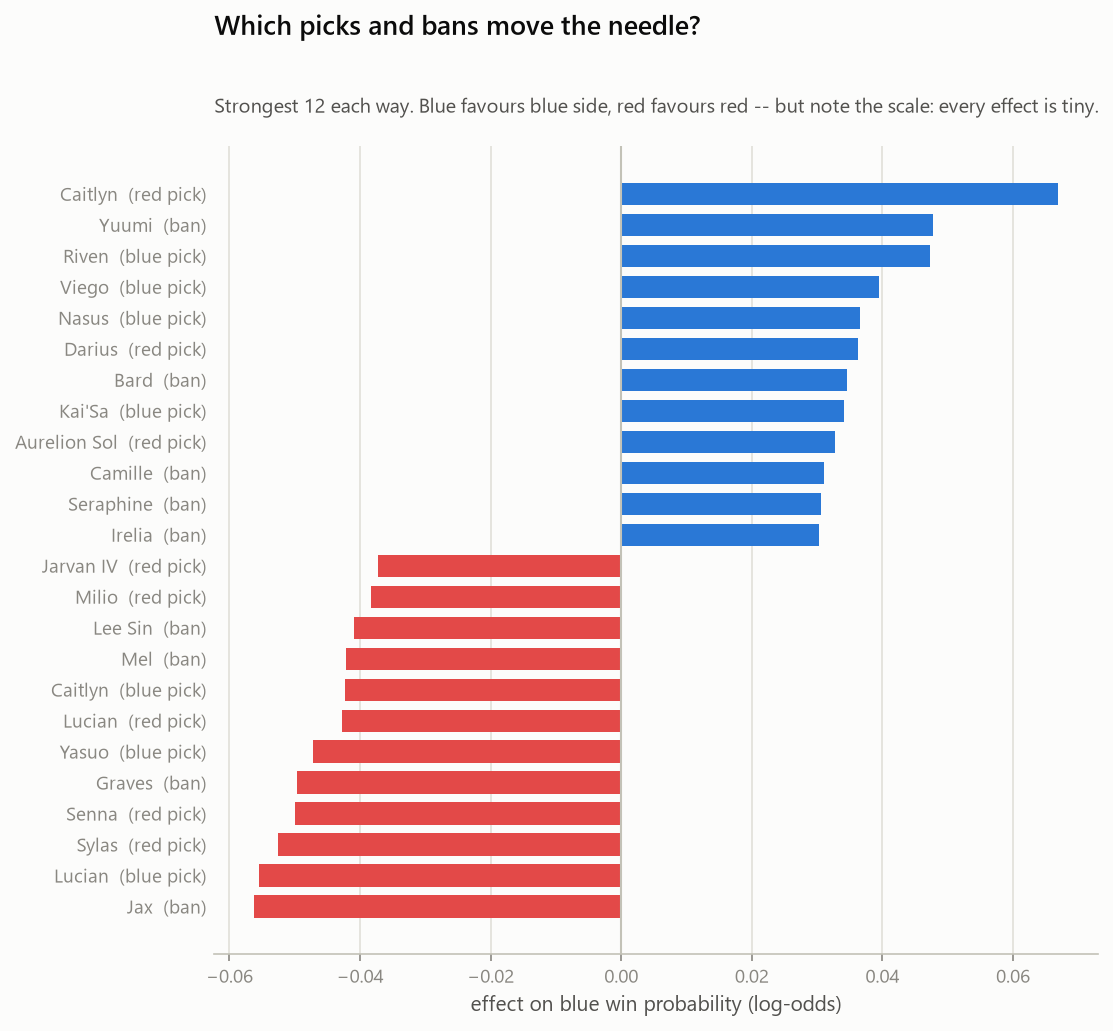
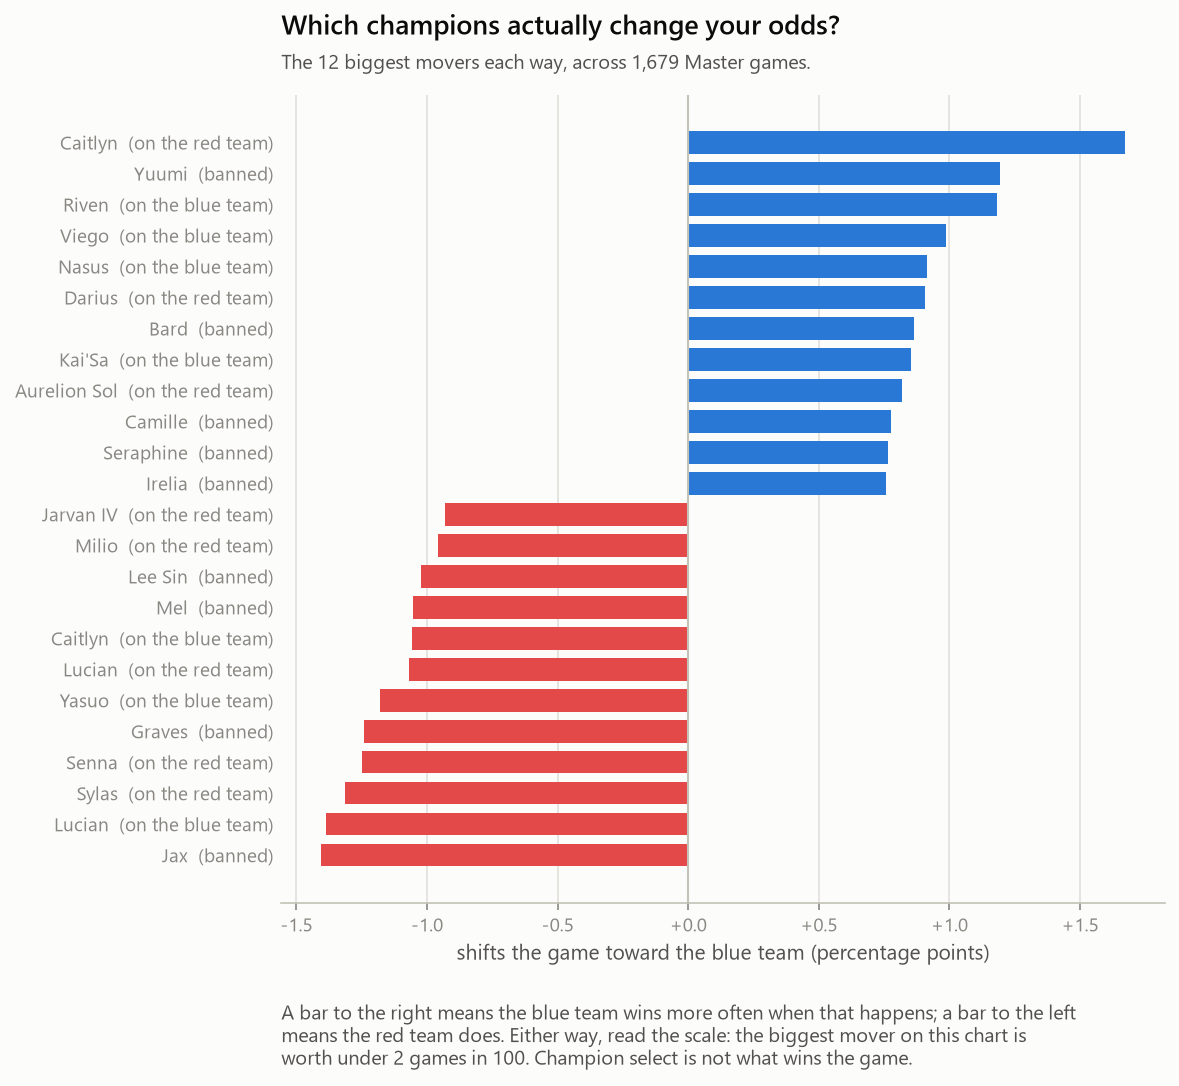
refining visualizations

diff --git a/src/model.py b/src/model.py
@@ -40,6 +40,12 @@ import viz  # noqa: E402
 N_SPLITS = 5
 RANDOM_STATE = 42
 
+# Plain-English names for anything a reader sees on a chart.
+FRIENDLY = {
+    "logreg  Tier-1 (M4)": "our model (champions)",
+    "LightGBM Tier-2 (M5)": "fancier model (did worse)",
+}
+
 # Regularization is TUNED, not guessed. With ~500 sparse Tier-1 features a fixed C
 # overfits badly (overconfident probabilities -> log-loss worse than a coin flip).
 C_GRID = np.logspace(-4, 1, 10)
@@ -145,12 +151,14 @@ def plot_calibration(y, curves: dict[str, np.ndarray], path: Path) -> None:
         prob_true, prob_pred = calibration_curve(y, np.clip(curves[name], 1e-6, 1 - 1e-6),
                                                  n_bins=10)
         ax.plot(prob_pred, prob_true, "o-", color=colour, lw=2, ms=6,
-                mec=viz.SURFACE, mew=1.5, label=name.strip(), zorder=3)
-    ax.set_xlabel("predicted win probability")
-    ax.set_ylabel("observed win rate")
-    viz.title_block(ax, "Calibration (out-of-fold)",
-                    "On the line = honest probabilities. Note how little of the axis is used.")
+                mec=viz.SURFACE, mew=1.5, label=FRIENDLY.get(name.strip(), name.strip()), zorder=3)
+    ax.set_xlabel("win chance the model predicted")
+    ax.set_ylabel("how often that actually happened")
+    viz.title_block(ax, "Are these predictions honest?",
+                    "Dots on the grey line mean the model's stated chance matches reality.")
     ax.legend(loc="upper left")
+    viz.caption(ax, "They sit near the line, so the model is honest -- but look how tiny a "
+                    "slice of the chart it uses. It only ever says 'roughly even'.")
     return viz.save(fig, path.name)
 
 
@@ -168,11 +176,13 @@ def plot_champion_coefficients(X: pd.DataFrame, y: pd.Series, labels: pd.DataFra
     def pretty(col: str) -> str:
         cid = int(col.split("_")[-1])
         name = labels.loc[cid, "name"] if cid in labels.index else f"id{cid}"
-        kind = "ban" if col.startswith("ban") else ("blue pick" if "blue" in col else "red pick")
+        kind = ("banned" if col.startswith("ban")
+                else "on the blue team" if "blue" in col else "on the red team")
         return f"{name}  ({kind})"
 
     ranked = pd.concat([coef.sort_values().head(k), coef.sort_values().tail(k)])
     ranked.index = [pretty(c) for c in ranked.index]
+    ranked = viz.to_points(ranked)  # log-odds -> points of win chance
     colours = [viz.RED_SIDE if v < 0 else viz.BLUE_SIDE for v in ranked.values]
 
     fig, ax = viz.figure(7.6, 7)
@@ -181,10 +191,14 @@ def plot_champion_coefficients(X: pd.DataFrame, y: pd.Series, labels: pd.DataFra
     ax.set_yticklabels(ranked.index, fontsize=9)
     ax.axvline(0, color=viz.BASELINE, lw=1)
     viz.despine_x(ax)
-    ax.set_xlabel("effect on blue win probability (log-odds)")
-    viz.title_block(ax, "Which picks and bans move the needle?",
-                    f"Strongest {k} each way. Blue favours blue side, red favours red "
-                    "-- but note the scale: every effect is tiny.")
+    ax.set_xlabel("shifts the game toward the blue team (percentage points)")
+    ax.xaxis.set_major_formatter(lambda v, _: f"{v:+.1f}")
+    viz.title_block(ax, "Which champions actually change your odds?",
+                    f"The {k} biggest movers each way, across 1,679 Master games.")
+    viz.caption(ax, "A bar to the right means the blue team wins more often when that "
+                    "happens; a bar to the left means the red team does. Either way, read "
+                    "the scale: the biggest mover on this chart is worth under 2 games in "
+                    "100. Champion select is not what wins the game.")
     return viz.save(fig, path.name)
 
 
@@ -197,16 +211,19 @@ def plot_winprob_spread(p: np.ndarray, path: Path):
     ax.set_xlim(0, 1)
     ax.set_xticks([0, 0.25, 0.5, 0.75, 1.0])
     ax.set_xticklabels(["0%", "25%", "50%", "75%", "100%"])
-    ax.set_xlabel("predicted blue win probability (out-of-fold)")
-    ax.set_ylabel("matches")
+    ax.set_xlabel("win chance the draft gave the blue team")
+    ax.set_ylabel("number of games")
     lo, hi = p.min(), p.max()
     ax.annotate(f"every prediction lives in here\n{lo:.0%} - {hi:.0%}",
                 xy=((lo + hi) / 2, ax.get_ylim()[1] * 0.72),
                 xytext=(0.78, ax.get_ylim()[1] * 0.8),
                 fontsize=9.5, color=viz.INK_SECONDARY, ha="center",
                 arrowprops=dict(arrowstyle="->", color=viz.INK_MUTED, lw=1))
-    viz.title_block(ax, "How confident can the draft alone make us?",
-                    "A draft that decided games would push predictions toward 0% and 100%.")
+    viz.title_block(ax, "The draft almost never picks a winner",
+                    "Each bar counts games. If champion select decided matches, these bars "
+                    "would spread out toward 0% and 100%.")
+    viz.caption(ax, "Instead they pile up on 50/50. After seeing both full drafts, the best "
+                    "guess is still almost a coin flip.")
     return viz.save(fig, path.name)
 
 

diff --git a/src/my_games.py b/src/my_games.py
@@ -169,13 +169,16 @@ def plot_per_game(df: pd.DataFrame):
     ax.set_xlim(0.40, 0.60)
     ax.set_xticks([0.40, 0.45, 0.50, 0.55, 0.60])
     ax.set_xticklabels(["40%", "45%", "50%", "55%", "60%"])
-    ax.set_xlabel("win probability the draft gave me")
+    ax.set_xlabel("the draft's read on my chances")
     viz.despine_x(ax)
     # Inverted (row 0 on top) with headroom so the "coin flip" label can't
     # collide with the topmost game's outcome label.
     ax.set_ylim(len(d) - 0.4, -1.1)
-    viz.title_block(ax, "My games: what the draft predicted vs. what happened",
-                    "The draft never gave me better than a coin flip -- yet most of these are wins.")
+    viz.title_block(ax, "What the draft said about my games -- and what happened",
+                    "Each line starts at an even 50/50 and stretches to what the draft "
+                    "predicted for me.")
+    viz.caption(ax, "The draft called almost every one of these a coin flip. I won most of "
+                    "them anyway -- that difference came from playing, not picking.")
     return viz.save(fig, "my_games.png")
 
 
@@ -194,13 +197,14 @@ def plot_execution_gap(df: pd.DataFrame):
     ax.set_xlim(0, 1)
     ax.set_xticks([0, 0.25, 0.5, 0.75, 1.0])
     ax.set_xticklabels(["0%", "25%", "50%", "75%", "100%"])
-    ax.set_xlabel(f"win rate over my last {len(df)} on-patch games")
+    ax.set_xlabel(f"share of my last {len(df)} games won")
     viz.despine_x(ax)
     ax.tick_params(axis="y", labelsize=10)
     ax.set_ylim(-0.55, 1.7)  # headroom so the "coin flip" label clears the top bar
-    viz.title_block(ax, "The gap between the draft and the result",
-                    "That gap is not champion select. It is execution "
-                    f"(small sample: {len(df)} games).")
+    viz.title_block(ax, "The draft said coin flip. I won 8 of 10.",
+                    "What champion select promised me, next to what I actually got.")
+    viz.caption(ax, f"That gap is where the game is really decided. (Only {len(df)} games, so "
+                    "treat the exact number lightly -- the size of the gap is the point.)")
     return viz.save(fig, "my_execution_gap.png")
 
 
@@ -222,11 +226,13 @@ def plot_odds_vs_outcome(df: pd.DataFrame):
     ax.set_xlim(0.40, 0.60)
     ax.set_xticks([0.40, 0.45, 0.50, 0.55, 0.60])
     ax.set_xticklabels(["40%", "45%", "50%", "55%", "60%"])
-    ax.set_xlabel("win probability the draft gave me")
+    ax.set_xlabel("the draft's read on my chances")
     viz.despine_x(ax)
     ax.legend(loc="lower right", ncol=2)
     viz.title_block(ax, "Did a better draft actually mean a win?",
-                    "If it did, the WON dots would sit right of the LOST dots. They overlap.")
+                    "Every game placed by what the draft predicted, split into wins and losses.")
+    viz.caption(ax, "If good drafts won games, the WON row would sit to the right of the LOST "
+                    "row. They sit on top of each other instead.")
     return viz.save(fig, "my_odds_vs_outcome.png")
 
 

diff --git a/src/predict.py b/src/predict.py
@@ -96,11 +96,11 @@ def contributions(blue: list[str], red: list[str], bans: list[str] = ()) -> pd.D
         for raw in names:
             cid = resolve_champion(raw, labels)
             col = f"{side}_pick_{cid}"
-            rows.append({"who": labels.loc[cid, "name"], "kind": f"{side} pick",
+            rows.append({"who": labels.loc[cid, "name"], "kind": f"on the {side} team",
                          "effect": float(coef.get(col, 0.0))})
     for raw in bans:
         cid = resolve_champion(raw, labels)
-        rows.append({"who": labels.loc[cid, "name"], "kind": "ban",
+        rows.append({"who": labels.loc[cid, "name"], "kind": "banned",
                      "effect": float(coef.get(f"ban_{cid}", 0.0))})
     return pd.DataFrame(rows)
 
@@ -142,7 +142,7 @@ def plot_scorecard(blue, red, bans, prob: float, contrib: pd.DataFrame):
               fontweight="bold", va="bottom")
     ax_p.text(1, 0.34, f"{1 - prob:.1%}", color=viz.RED_SIDE, fontsize=20,
               fontweight="bold", va="bottom", ha="right")
-    ax_p.text(0.5, -0.62, "50% = the draft tells you nothing", fontsize=8.5,
+    ax_p.text(0.5, -0.62, "50% would mean the draft tells you nothing", fontsize=8.5,
               color=viz.INK_MUTED, ha="center")
 
     # --- contribution breakdown
@@ -155,19 +155,20 @@ def plot_scorecard(blue, red, bans, prob: float, contrib: pd.DataFrame):
     else:
         c = c.sort_values("effect")
         colours = [viz.RED_SIDE if v < 0 else viz.BLUE_SIDE for v in c["effect"]]
-        ax_c.barh(range(len(c)), c["effect"], color=colours, height=0.7)
+        ax_c.barh(range(len(c)), viz.to_points(c["effect"]), color=colours, height=0.7)
         ax_c.set_yticks(range(len(c)))
         ax_c.set_yticklabels([f"{r.who}  ({r.kind})" for r in c.itertuples()], fontsize=9)
         ax_c.axvline(0, color=viz.BASELINE, lw=1)
         viz.despine_x(ax_c)
-        ax_c.set_xlabel("effect on blue win probability (log-odds)")
+        ax_c.set_xlabel("shifts the game toward the blue team (percentage points)")
+        ax_c.xaxis.set_major_formatter(lambda v, _: f"{v:+.1f}")
     viz.title_block(ax_c, "What moved the needle",
-                    "Blue bars favour blue side, red favour red.")
+                    "Bars to the right help the blue team, bars to the left help the red team.")
 
     fig.text(0.05, 0.945, "Draft win-probability scorecard", fontsize=15,
              fontweight="semibold", color=viz.INK)
     fig.text(0.05, 0.905, f"Master SEA, patches {' + '.join(config.TARGET_PATCHES)}  -  "
-             "draft alone rarely moves a solo-queue game far from a coin flip.",
+             "champion select rarely moves a solo-queue game far from a coin flip.",
              fontsize=9.5, color=viz.INK_SECONDARY)
     return viz.save(fig, "draft_scorecard.png")
 

diff --git a/src/viz.py b/src/viz.py
@@ -83,9 +83,34 @@ def apply_style() -> None:
     })
 
 
+# Log-odds -> percentage points of win chance.
+# A logistic model's coefficient is in log-odds, which means nothing to a reader.
+# Near an even game (50/50) the sigmoid's slope is 1/4, so a coefficient of b
+# shifts the win chance by about b/4 -- i.e. b * 25 percentage points. Every one
+# of our predictions sits near 50%, so this conversion is accurate here, and it
+# turns "0.067 log-odds" into the far more honest "+1.7 points of win chance".
+PP_PER_LOGODD = 25.0
+
+
+def to_points(log_odds):
+    """Coefficient in log-odds -> percentage points of win chance."""
+    return log_odds * PP_PER_LOGODD
+
+
 def figure(width: float = 8, height: float = 4.5):
     fig, ax = plt.subplots(figsize=(width, height))
     return fig, ax
+
+
+def caption(ax, text: str, width: int = 92) -> None:
+    """A plain-language takeaway printed under the chart -- the sentence you'd
+    say out loud if someone asked 'so what?'. Wraps itself, so callers just pass
+    one plain sentence."""
+    import textwrap
+    ax.annotate(textwrap.fill(text, width), xy=(0, 0), xycoords="axes fraction",
+                xytext=(0, -48), textcoords="offset points",
+                fontsize=9.5, color=INK_SECONDARY, va="top", ha="left",
+                annotation_clip=False)
 
 
 def title_block(ax, title: str, sub: str | None = None) -> None:
